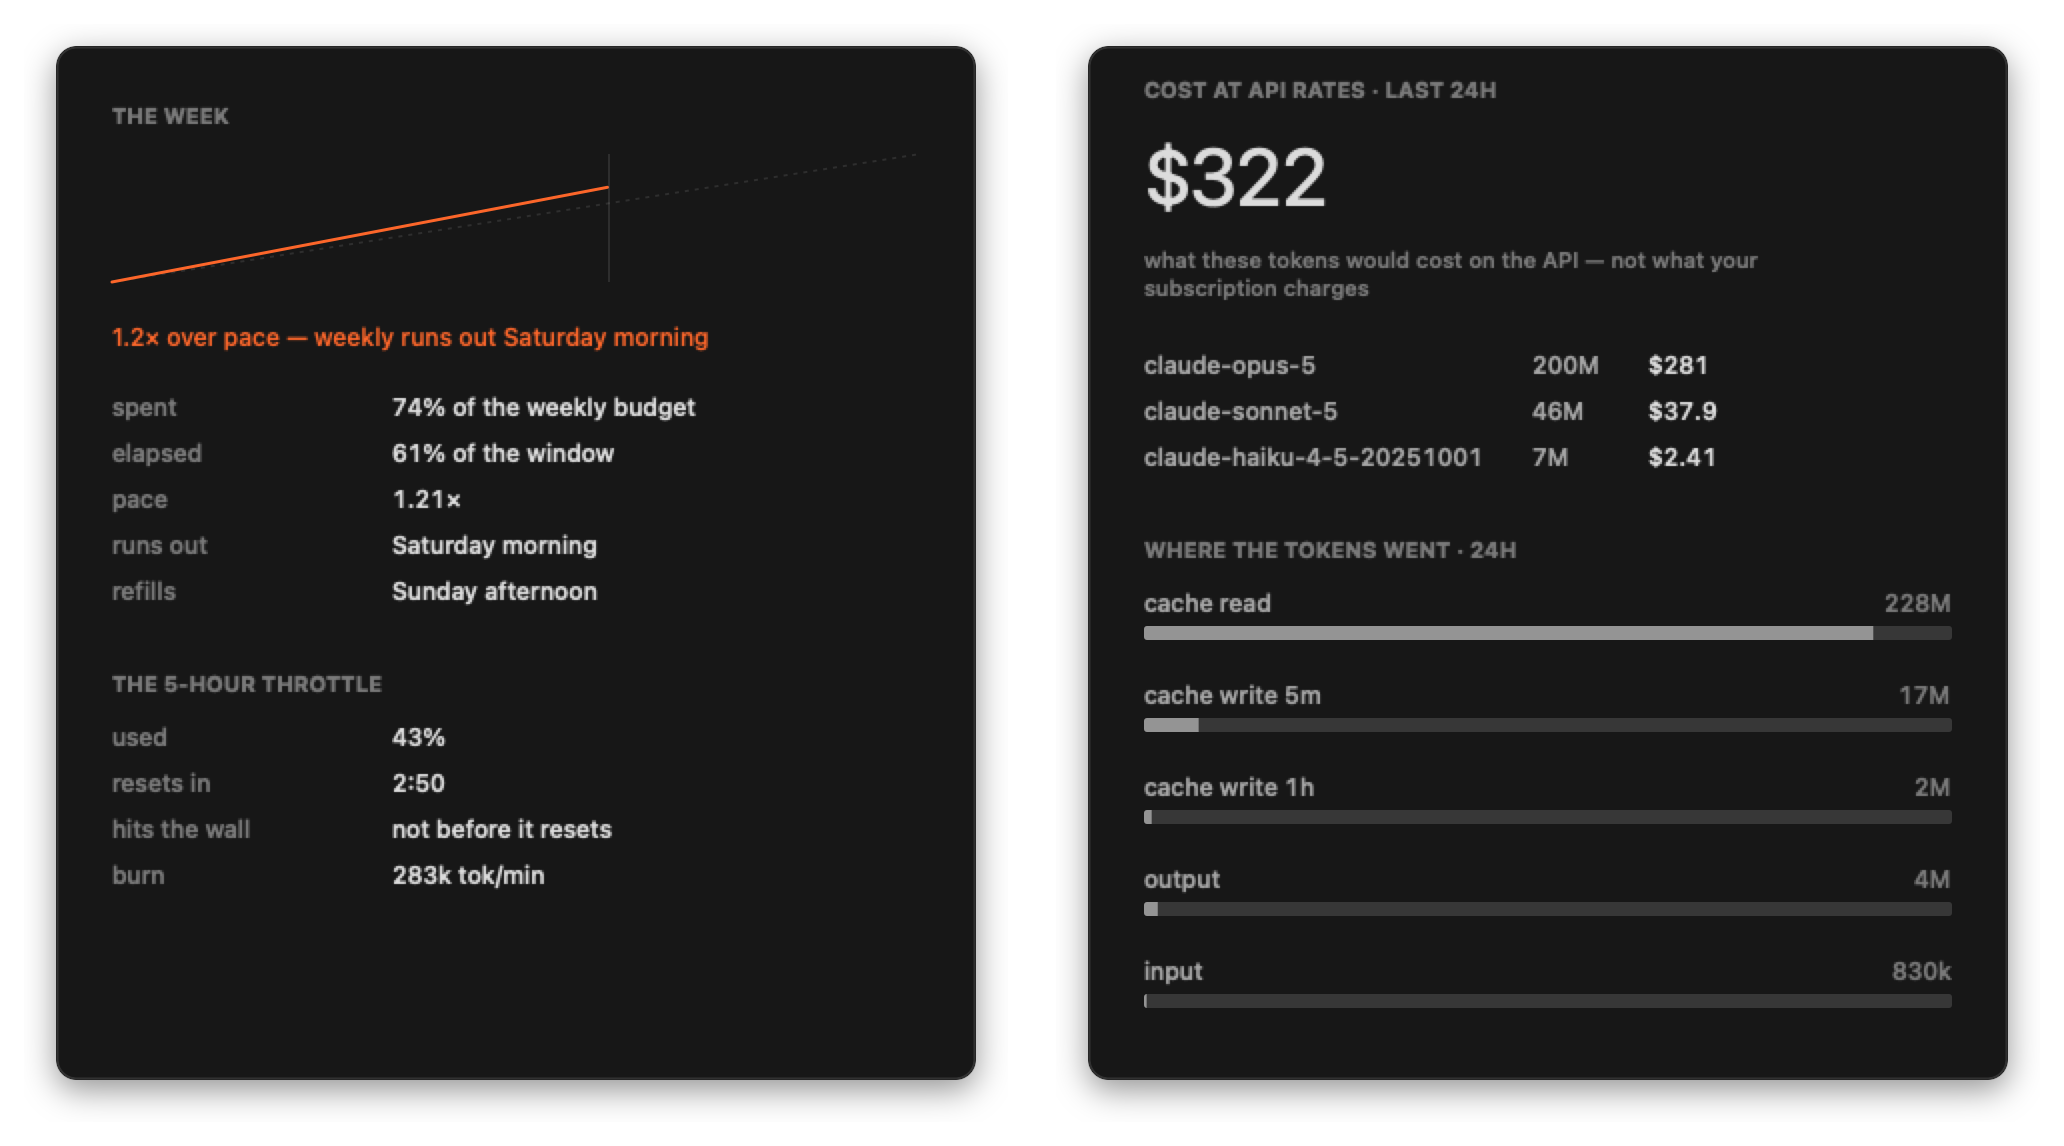
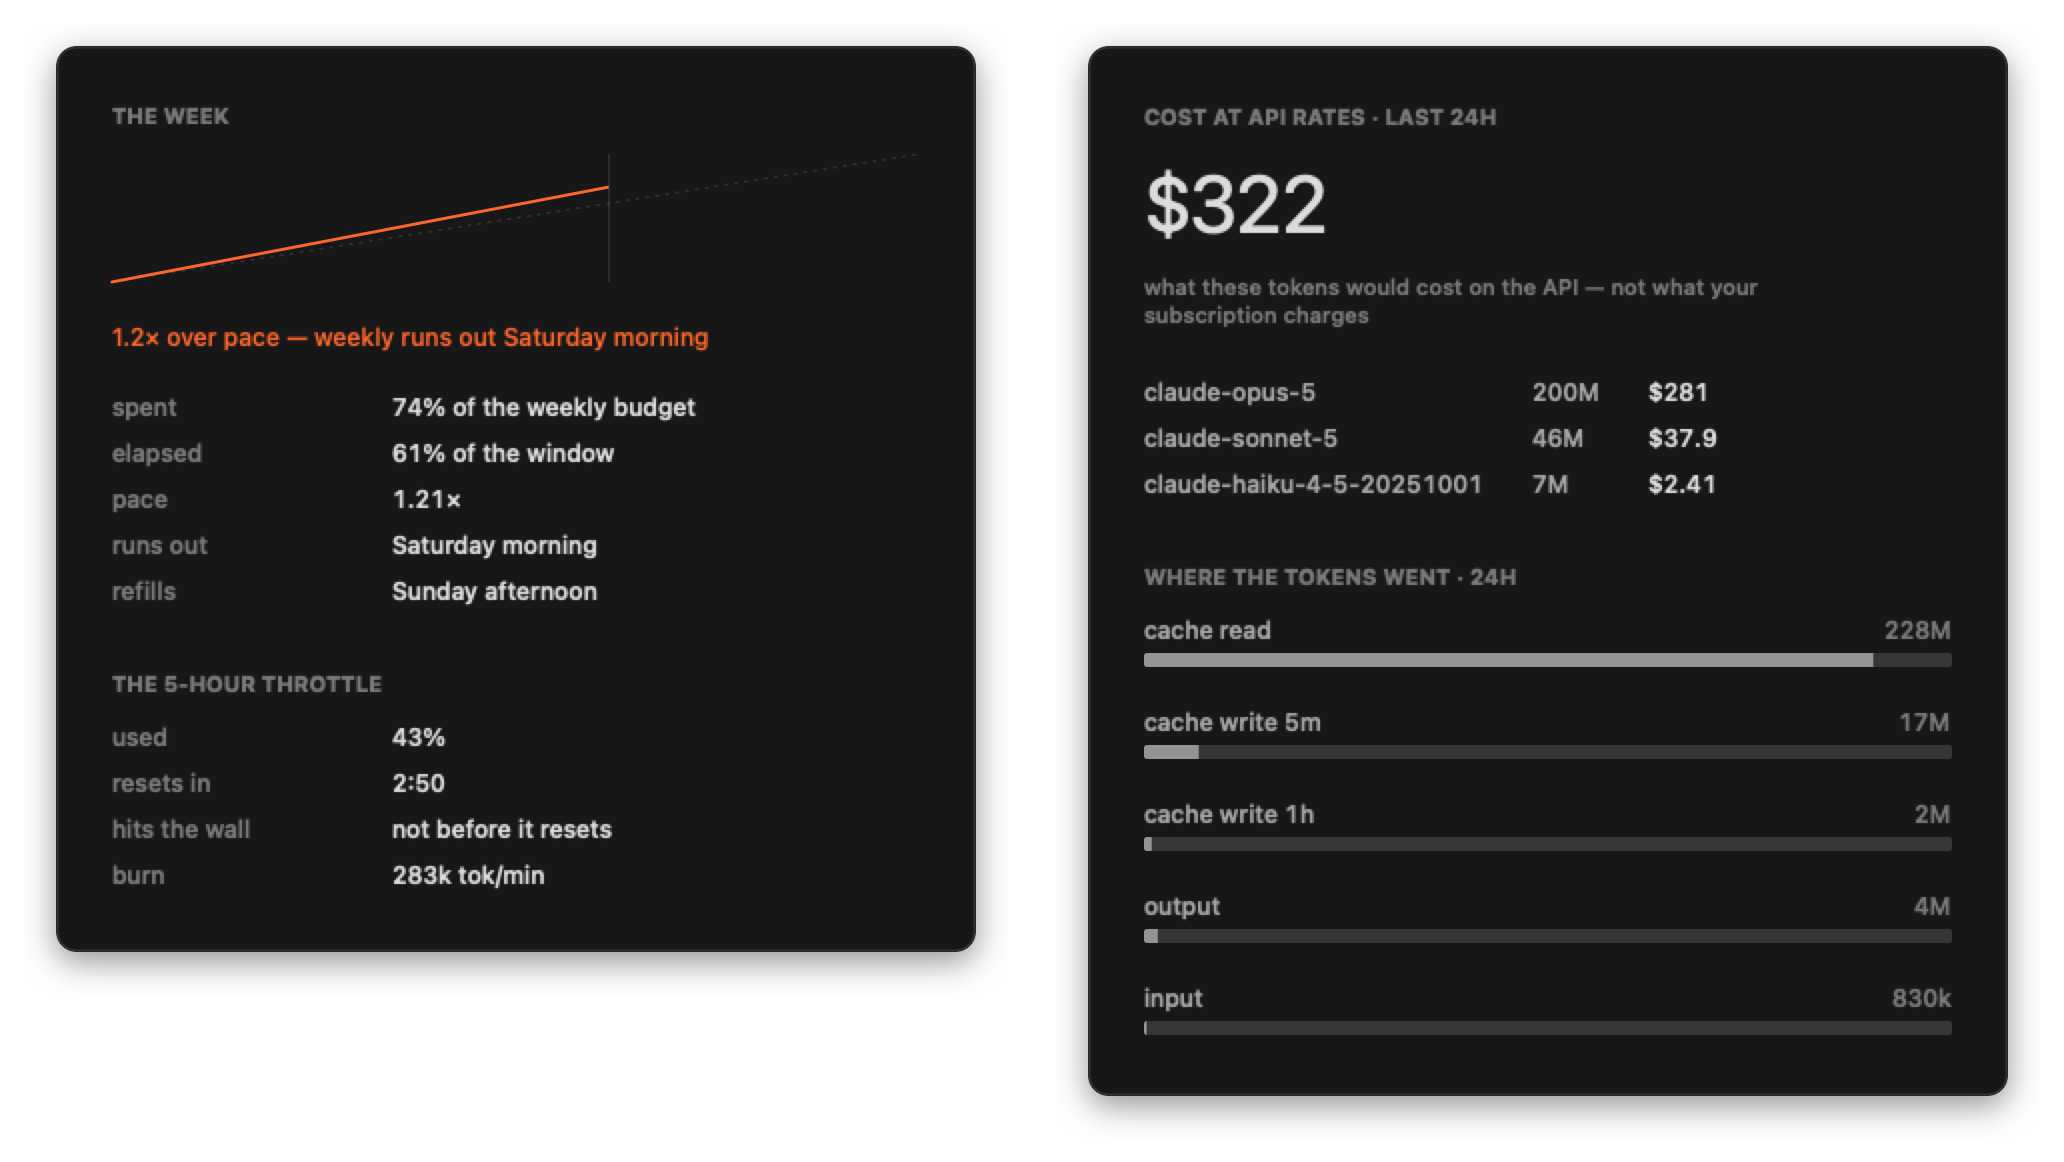
Stop upscaling the instrument shot, register the panel columns
The instrument crop was set at width="620" against a 952px file, a 1.30x
upscale, so it was the one soft image on the page while every other shot
downscaled. 476 is exactly half of 952 and lands on device pixels. Popover to
480 for the same reason.

The panel's two columns were cut at one arbitrary y and the shorter half padded
to match, which put the right column's heading 26px above the left's and left a
192px slab of empty card under "283k tok/min" -- it read as a section that had
failed to render. Both halves are now cut so their section label sits at the
panel's own 61px inset and each ends 61px after its own last row. They come out
different heights, which is what two columns of a document do.

diff --git a/README.md b/README.md
@@ -15,7 +15,7 @@ Swift 6 · SwiftUI · AppKit · no dependencies · macOS 14+ (Apple silicon)
 <div align="center">
 <picture>
   <source media="(prefers-color-scheme: dark)" srcset="docs/popover-dark.png">
-  <img src="docs/popover-light.png" width="470" alt="Headroom's menu bar dropdown: the week at 74% with a pace mark, the 5-hour window at 43%, a Fable cap at 18%, three saved accounts, an auto-swap switch and a model picker">
+  <img src="docs/popover-light.png" width="480" alt="Headroom's menu bar dropdown: the week at 74% with a pace mark, the 5-hour window at 43%, a Fable cap at 18%, three saved accounts, an auto-swap switch and a model picker">
 </picture>
 </div>
 
@@ -54,7 +54,7 @@ Or take the `.dmg` from [Releases](../../releases) and drag Headroom to Applicat
 <div align="center">
 <picture>
   <source media="(prefers-color-scheme: dark)" srcset="docs/instrument-dark.png">
-  <img src="docs/instrument-light.png" width="620" alt="The header: WEEK USED 74% in amber with a graduated meter and a pace mark at 61%, SESSION 43% and FABLE 18% beside it, then 'refills in 2d 16h', the 24-hour token count and cost, and 'read 4m ago'">
+  <img src="docs/instrument-light.png" width="476" alt="The header: WEEK USED 74% in amber with a graduated meter and a pace mark at 61%, SESSION 43% and FABLE 18% beside it, then 'refills in 2d 16h', the 24-hour token count and cost, and 'read 4m ago'">
 </picture>
 </div>
 
